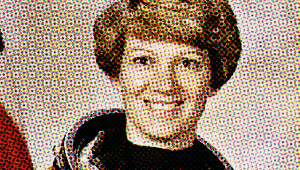
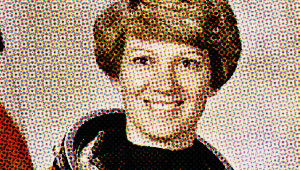
Imágenes: la intensidad ya no cambia el tamaño de la trama; añade textura de imprenta (CMYK, duotono, riso)
Claude-Session: https://claude.ai/code/session_01VPHAR7jpTJpijXUd8K8hgP

diff --git a/plugin/js/image.js b/plugin/js/image.js
@@ -345,6 +345,23 @@
     return O;
   }
 
+  // textura de imprenta que crece con la intensidad (no cambia la trama): tinta irregular, bandas
+  // del rodillo, zonas con poca tinta y algo de velo. 'salt' distingue cada tinta.
+  function pressTexture(C, im, p, salt) {
+    var k = smooth(0.25, 1, p.e); if (k <= 0) return C;
+    var w = im.w, h = im.h, S = im.S, sd = p.seed + salt * 101;
+    var M1 = noiseField(w, h, S * 0.1, sd + 3, true), M2 = noiseField(w, h, S * 0.025, sd + 5, false), Lw = noiseField(w, h, S * 0.05, sd + 7, true);
+    for (var y = 0; y < h; y++) for (var x = 0; x < w; x++) {
+      var i = y * w + x, c = C[i];
+      var band = 0.5 + 0.5 * Math.sin(y / (S * 0.035) * 6.283 + M1[i] * 3 + salt);
+      c *= 1 - k * (0.32 * smooth(0.45, 0.85, M1[i] * 0.7 + M2[i] * 0.3) + 0.1 * band);
+      var low = smooth(0.64, 0.8, Lw[i]) * k;
+      if (low > 0 && c > 0) c *= 1 - low * 0.65 * (hash(i * 7 + sd) < 0.5 ? 1 : 0.4);
+      C[i] = Math.max(c, 0.03 * k * smooth(0.45, 0.8, M1[i]));
+    }
+    return C;
+  }
+
   // ================================================================== técnicas
   // Cada técnica devuelve capas { cov: Float32Array 0..1, ink: [r,g,b], opaque?: bool }.
   // p.e = intensidad 0..1 (ver applyIntensity).
@@ -470,7 +487,7 @@
       if ((p.lines || 0) > 0) C = amScreen(C, w, h, { cell: S / p.lines, ang: ang[k], shape: p.shape || 'round', gain: p.gain || 0.15, comp: 0.8, rag: 0.12, seed: p.seed + k });
       var md = S * 0.004 * (p.misreg || 0) * k;
       C = shift(C, w, h, md * Math.cos(k * 2.1), md * Math.sin(k * 2.1));
-      layers.push({ cov: defects(C, im, p, k, p.seed), ink: p.inks[k] });
+      layers.push({ cov: defects(pressTexture(C, im, p, k), im, p, k, p.seed), ink: p.inks[k] });
     }
     return layers;
   };
@@ -518,7 +535,7 @@
       if (fadeK[q] < 1) for (i = 0; i < n; i++) L[i] *= fadeK[q];
       var md = S * 0.005 * (p.misreg || 0);
       L = shift(L, w, h, md * dirs[q][0], md * dirs[q][1]);
-      layers.push({ cov: defects(L, im, p, q, p.seed), ink: inks[q] });
+      layers.push({ cov: defects(pressTexture(L, im, p, q), im, p, q, p.seed), ink: inks[q] });
     }
     return layers;
   };
@@ -706,8 +723,8 @@
     p.e = e;
     var f = Math.pow(2 * e, 1.5);                                          // 0 → 0 · 0,5 → 1 · 1 → 2,8
     DEFECTS.forEach(function (k) { if (typeof p[k] === 'number') p[k] = Math.min(2.5, p[k] * f); });
-    if (p.lines > 0) p.lines = p.lines * Math.pow(2, (0.5 - e) * 2.6 * (p.lineK == null ? 1 : p.lineK));    // ×2,5 más fina … ×2,5 más gruesa
-    if (typeof p.px === 'number') p.px = p.px * Math.pow(2, (e - 0.5) * 3);
+    if (p.lines > 0) p.lines = p.lines * Math.pow(2, (0.5 - e) * 2.6 * (p.lineK == null ? 0.35 : p.lineK));    // ×2,5 más fina … ×2,5 más gruesa
+    if (typeof p.px === 'number') p.px = p.px * Math.pow(2, (e - 0.5) * 1.1);
     if (typeof p.gain === 'number') p.gain = p.gain * (0.3 + 1.1 * e);
     p.clarity = (p.clarity == null ? 0.3 : p.clarity) * (0.3 + 1.4 * e);
     p.detail = (p.detail || 0) * (0.35 + 1.3 * e);

diff --git a/CONTEXTO.md b/CONTEXTO.md
@@ -135,6 +135,7 @@ Todas las gotas salen del banco `plugin/drips`. El motor usa `prepareDrips`, `pi
 ### En curso (sin empaquetar; el usuario pidió no enviar el .ccx todavía)
 
 - Imágenes › Fotocopia punk: el umbral se compara con ruido de tóner (`tgrain`): blancos y negros nítidos, medios tonos en grano fino; nitidez fina antes del umbral.
+- Imágenes, regla del usuario: **el deslizador de intensidad NO debe cambiar el tamaño de la trama o del grano**, sino añadir textura. Por eso `lineK` vale 0,35 por defecto, el factor de `px` se ha reducido y `pressTexture()` se aplica por tinta en Cuatricromía y Duotono/Tritono.
 - Periódico (las tres variantes): `lineK 0.35`, así la intensidad cambia poco el tamaño del punto o de la línea. A cambio añade textura de rotativa que crece con `e`: tinta irregular, bandas, zonas sin tinta, traspaso del dorso, velo, motas con anillo y arañazos.
 - Copia de copia: `smear` (franjas movidas con estela horizontal) y `blots` (borrones grises).
 - Las tres fotocopias se diferencian así:
